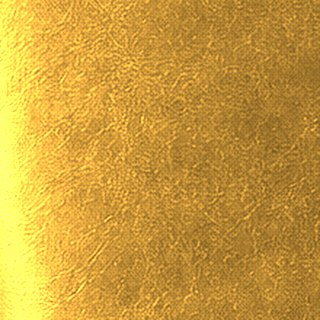
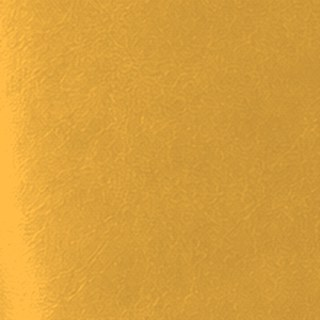
Soften leather previews and swatches; no cord line until a cord is chosen
- Recolor pulls texture most of the way toward the flat leather color and
  caps highlights, so the glare is gone; swatches are near-flat with a light grain
- The rendered cord is patched out with a per-column vertical blend instead
  of a copied band, removing the horizontal seam on the preview notebook
- The cord overlay only draws once a cord is selected

diff --git a/src/components/OrderForm.tsx b/src/components/OrderForm.tsx
@@ -401,19 +401,20 @@ function Preview({
         aria-hidden
       >
         <Image src={src} alt="" fill sizes="45vw" className="object-contain drop-shadow-[-18px_22px_16px_rgba(40,32,24,0.28)]" />
-        {/* cord */}
-        <div
-          className="absolute"
-          style={{
-            left: "8%",
-            right: "8%",
-            top: "51%",
-            height: keychain ? 2 : 3,
-            background: cord?.color ?? "rgba(28,31,43,0.3)",
-            borderRadius: 2,
-            boxShadow: "0 1px 1px rgba(0,0,0,0.25)",
-          }}
-        />
+        {cord && (
+          <div
+            className="absolute"
+            style={{
+              left: "8%",
+              right: "8%",
+              top: "51%",
+              height: keychain ? 2 : 3,
+              background: cord.color,
+              borderRadius: 2,
+              boxShadow: "0 1px 1px rgba(0,0,0,0.25)",
+            }}
+          />
+        )}
         {order.charm && (
           <div
             className="absolute rounded-full"
